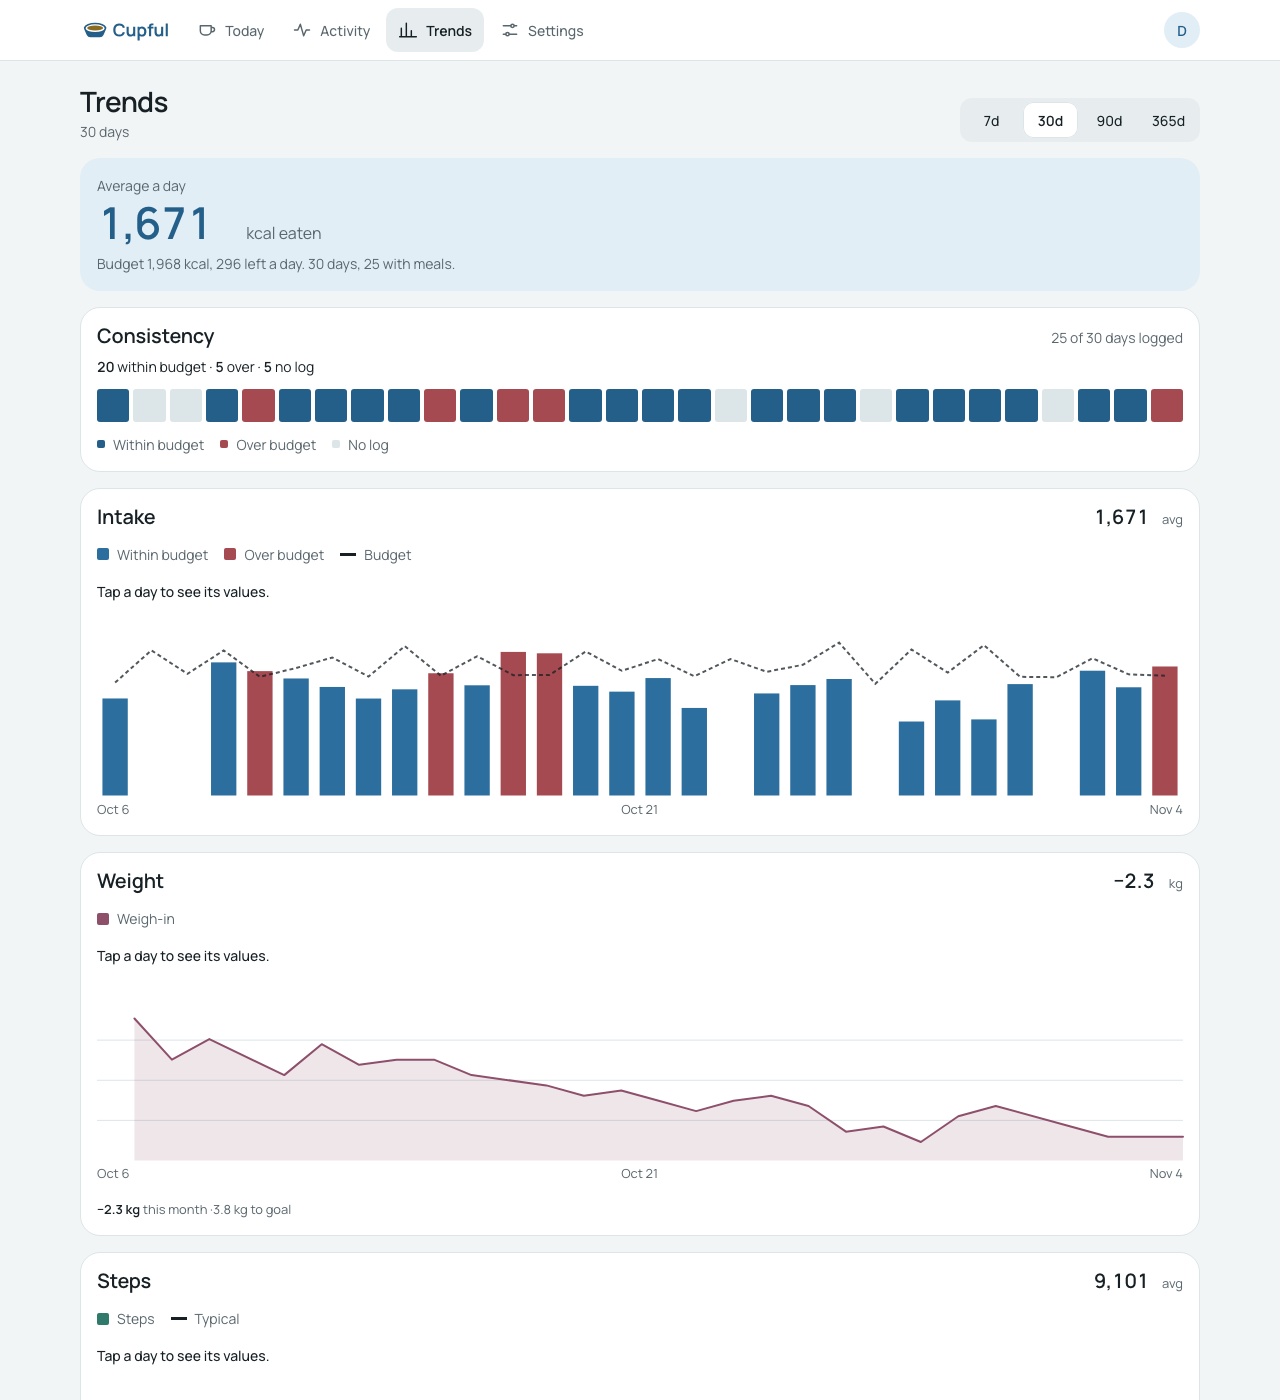
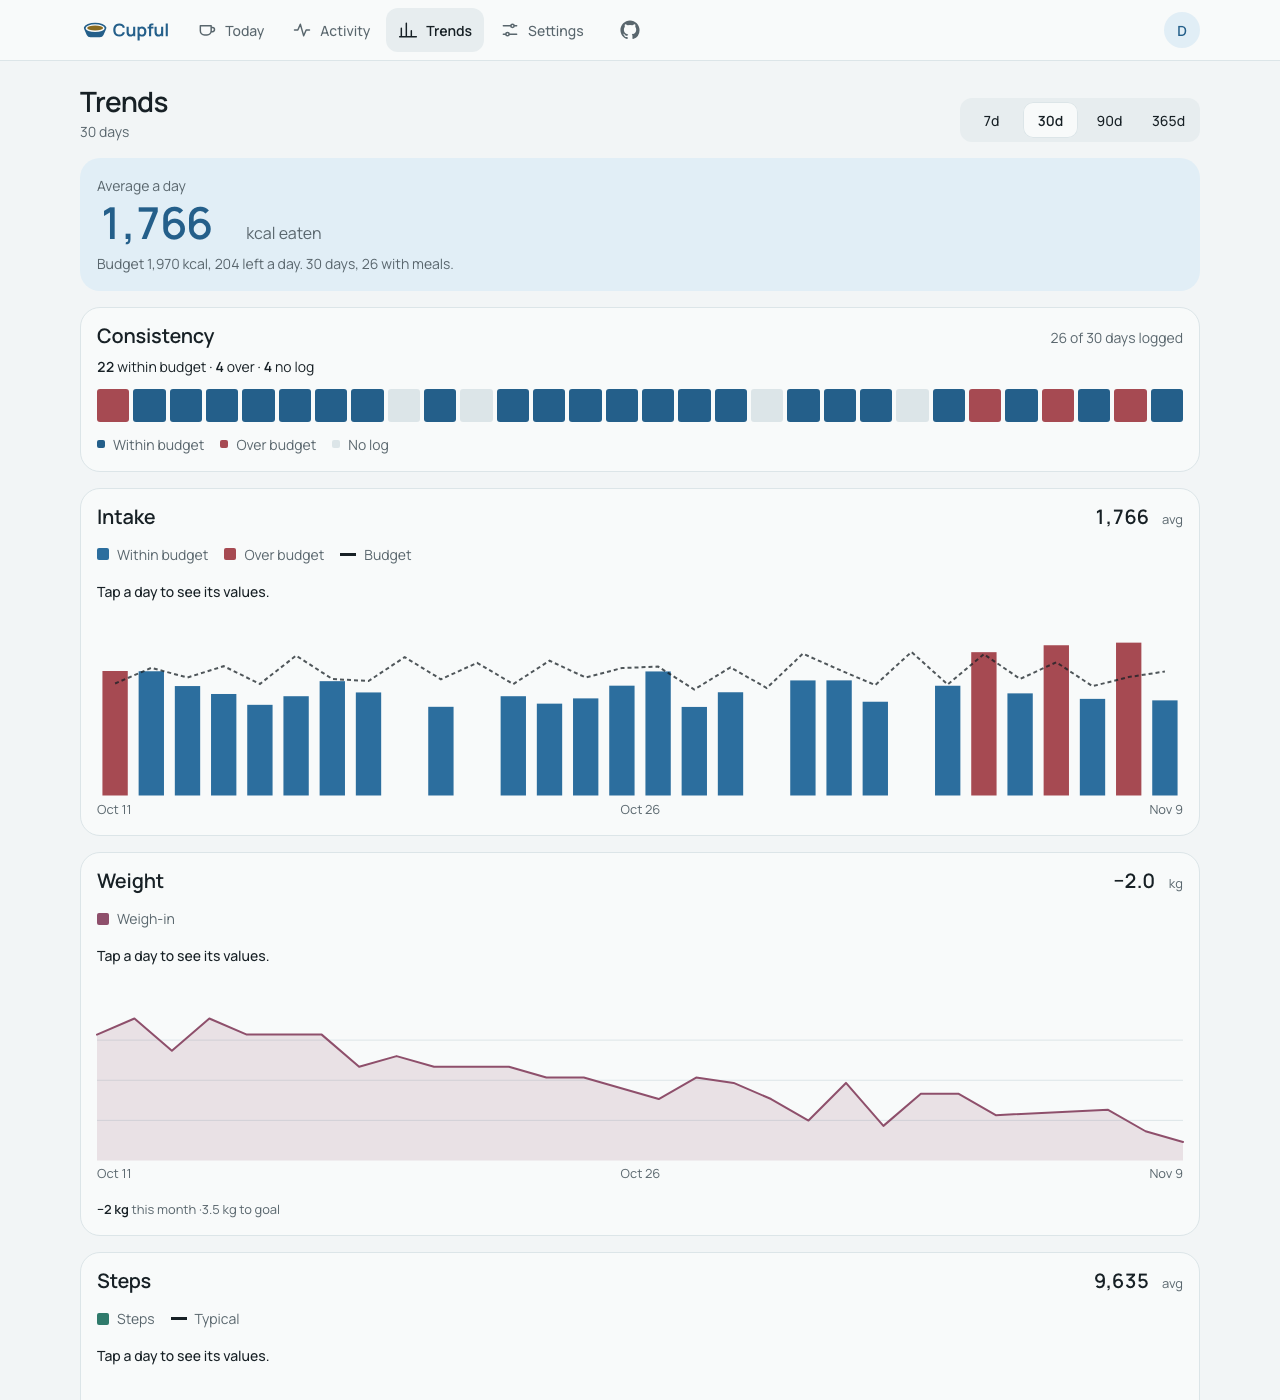
Soften the light theme surfaces

diff --git a/web/src/lib/styles/tokens.css b/web/src/lib/styles/tokens.css
@@ -11,11 +11,11 @@
 
 	/* ---- surfaces and text ---- */
 	--bg: light-dark(#f2f5f6, #0e1418); /* cool pale stone */
-	--surface: light-dark(#ffffff, #151d22);
+	--surface: light-dark(#f8fafa, #151d22); /* cool off-white; pure white reads harsh */
 	--surface-2: light-dark(#e7edef, #1b262c); /* sunken: meter tracks, inputs, hover */
 	--border: light-dark(#dce5e8, #2a3740); /* hairlines; decorative */
 	--border-strong: light-dark(#9aabb3, #60747f); /* stronger rules and separators */
-	--control-border: light-dark(#8598a1, #60747f); /* input outlines: 3:1 on surface */
+	--control-border: light-dark(#7e919b, #60747f); /* input outlines: 3:1 on --surface */
 	--text: light-dark(#172025, #e9f1f4);
 	--text-muted: light-dark(#59666d, #9fb0b8);
 

diff --git a/docs/design.md b/docs/design.md
@@ -5,9 +5,9 @@ People open Cupful many times a day, on a phone, for a few seconds. They check w
 
 ## Direction
 
-**Mineral.** Cool pale stone, white panels, one deep sea blue. The light theme sits on `#f2f5f6`, not a warm tint. The dark theme sits on `#0e1418`, a green-black rather than navy. The palette is quiet and slightly cool, like a kitchen scale and a glass of water.
+**Mineral.** Cool pale stone, cool off-white panels, one deep sea blue. The light theme sits on `#f2f5f6`, not a warm tint. The panels are `#f8fafa`, not pure white, so the light theme does not glare. The dark theme sits on `#0e1418`, a green-black rather than navy. The palette is quiet and slightly cool, like a kitchen scale and a glass of water.
 
-**Pantry layout.** Soft surfaces, generous spacing and large radii. White cards sit on the pale ground with a hairline border and no shadow. Desktop gets a top bar with the wordmark, four plain links and an account menu. Phones get bottom tabs with an icon and a short label. The current route is neutral: `--surface-2` with normal text, never an accent fill.
+**Pantry layout.** Soft surfaces, generous spacing and large radii. Off-white cards sit on the pale ground with a hairline border and no shadow. Desktop gets a top bar with the wordmark, four plain links and an account menu. Phones get bottom tabs with an icon and a short label. The current route is neutral: `--surface-2` with normal text, never an accent fill.
 
 Nothing shouts. Strong colors carry meaning. Teal means "left". Brick means "over". Amber means "check this". Data hues come from pantry food: blue protein, ochre carbs, brick fat, teal steps, berry weight, and orange, teal, blue and gold for the four meals.
 
@@ -30,11 +30,11 @@ Nothing shouts. Strong colors carry meaning. Teal means "left". Brick means "ove
 | Role | Light | Dark |
 | --- | --- | --- |
 | Page `--bg` | `#f2f5f6` | `#0e1418` |
-| Card `--surface` | `#ffffff` | `#151d22` |
+| Card `--surface` | `#f8fafa` | `#151d22` |
 | Sunken `--surface-2` | `#e7edef` | `#1b262c` |
 | Hairline `--border` | `#dce5e8` | `#2a3740` |
 | Strong rule `--border-strong` | `#9aabb3` | `#60747f` |
-| Control outline `--control-border` | `#8598a1` | `#60747f` |
+| Control outline `--control-border` | `#7e919b` | `#60747f` |
 | Text `--text` | `#172025` | `#e9f1f4` |
 | Muted `--text-muted` | `#59666d` | `#9fb0b8` |
 | Accent `--accent` | `#245f8a` | `#82c2e8` |

diff --git a/docs/decisions.md b/docs/decisions.md
@@ -169,3 +169,4 @@ One line per deviation from the design or notable choice: date - what - why.
 - 2026-11-07 - An older cached client that saves the profile without `calorie_goal` clears it. - Acceptable on a self-hosted single-user instance; the update prompt prevents it in practice.
 - 2026-11-08 - GitHub stars come from the public GitHub API through `GET /api/github`, cached for an hour including failures. - A browser call per visitor would leak each user's IP and hit the unauthenticated rate limit; the server makes one shared request.
 - 2026-11-08 - The Activity week strip explains a day on hover or focus with steps, gym minutes, trained parts and workout names. - The compact marks need readable detail without opening another screen.
+- 2026-11-09 - Light theme panels use `#f8fafa` instead of pure white, and the control outline darkens to `#7e919b` to keep 3:1 contrast. - Pure white was harsh against the pale stone ground.
